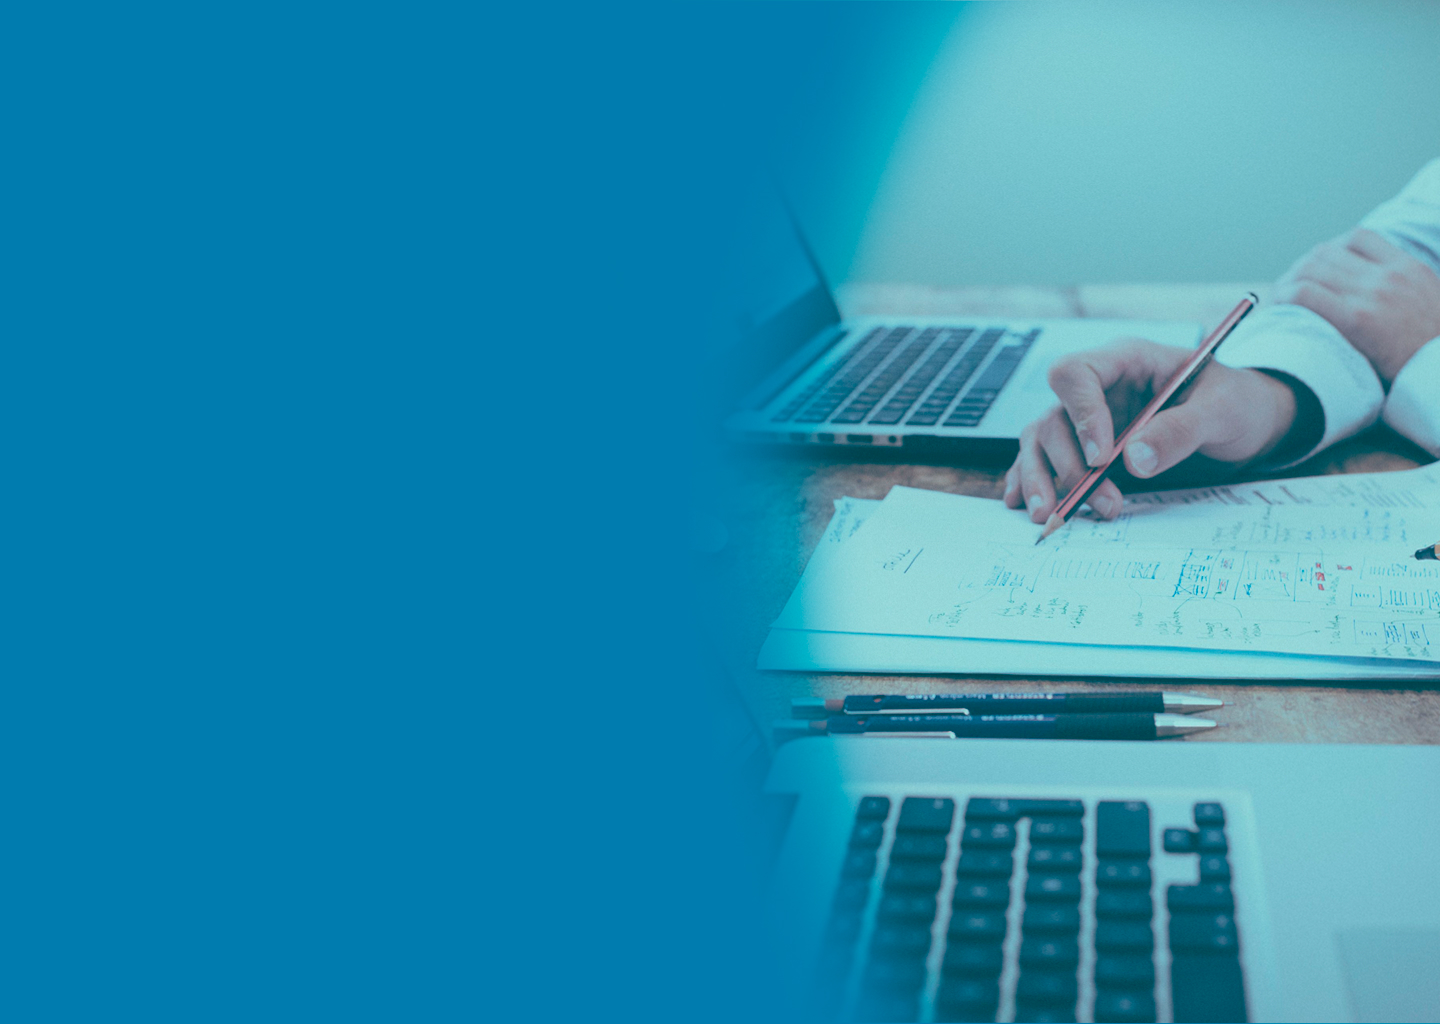
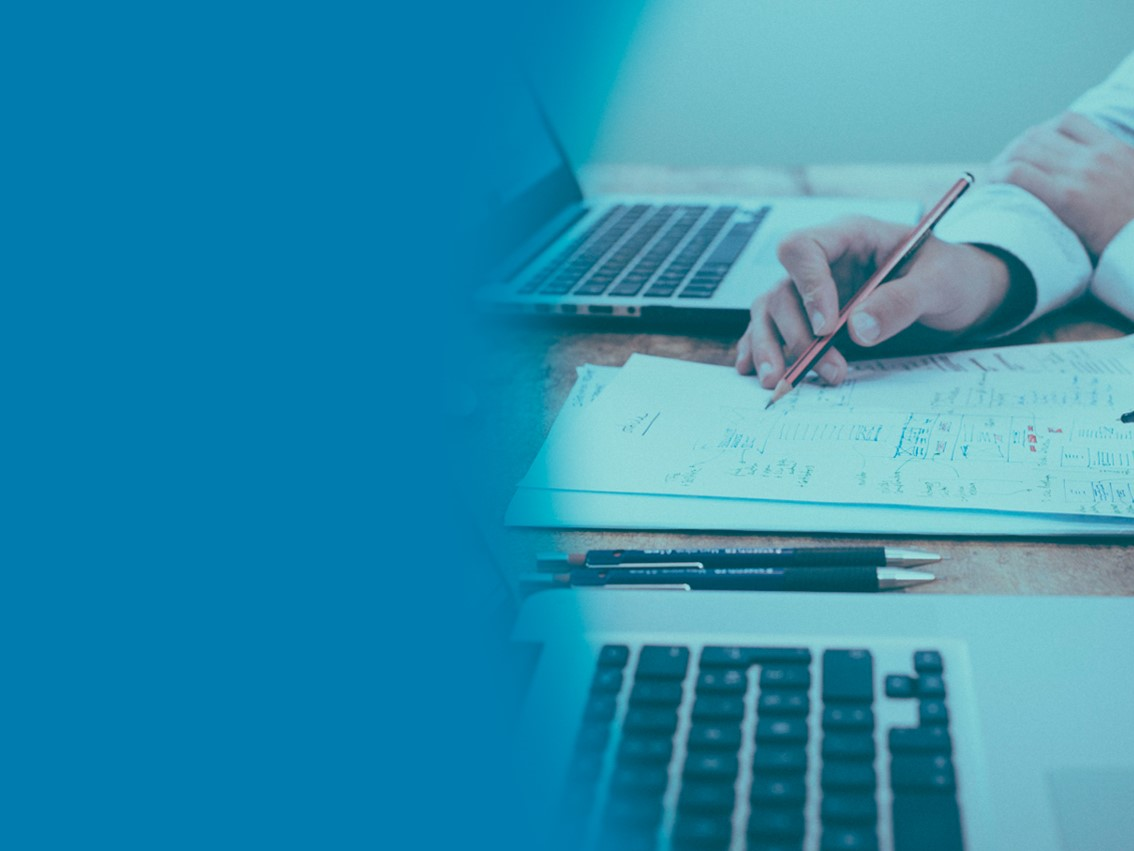
arreglo del scss de login v1

Changed region(s): [[0.4321, 0.0, 1.0, 1.0]]

diff --git a/src/app/Components/login/login.component.scss b/src/app/Components/login/login.component.scss
@@ -1,23 +1,19 @@
 .main {
   position: relative;
+  max-height: 100vh;
+  width: 100%;
+  display: flex;
+  flex-direction: column;
 }
 
-.fondo {
-  position:fixed;
-  right:0;
-  bottom:0;
-  //max-width:100%;
-  height: 100%;
-  object-fit: cover;
-  object-position: center center;
-}
 
 .gys-logo {
+  order: 0;
   position: absolute;
-  width: 20em;
+  width: 30em;
   left: 7%;
-  top: 10%;
-  transform: translate(0, 25%);
+  top: 5%;
+  transform: translate(0, 15%);
 }
 
 .boton{
@@ -27,6 +23,7 @@
 }
 
 .login {
+  order: 1;
   display: flex;
   justify-content: center;
   align-items: center;
@@ -34,7 +31,7 @@
   background: #025B7D;
   border-radius: 15px;
   position: absolute;
-  top: 50%;
+  top: 5%;
   transform: translate(0, 25%);
   left: 20%;
 }
@@ -64,13 +61,7 @@ span {
 }
 
 .piepagina {
+  order: 2;
   background: #034964;
-  min-height: 10%;
-  min-width: 100%;
-  background-size:100%;
-  height: auto;
-  position:fixed;
-  left:0;
-  bottom:0;
-  width:100%;
+  margin-bottom: 0;
 }

diff --git a/src/app/Components/login/login.component.html b/src/app/Components/login/login.component.html
@@ -1,6 +1,4 @@
 <div class="main">
-  <div class="fondo"><img src="./../../../assets/img/fondo-login.jpg" alt="fondo.login"></div>
-
   <div class="gys-logo">
     <img src="./../../../assets/img/Logo-G&S.png" alt="logo GyS">
   </div>
